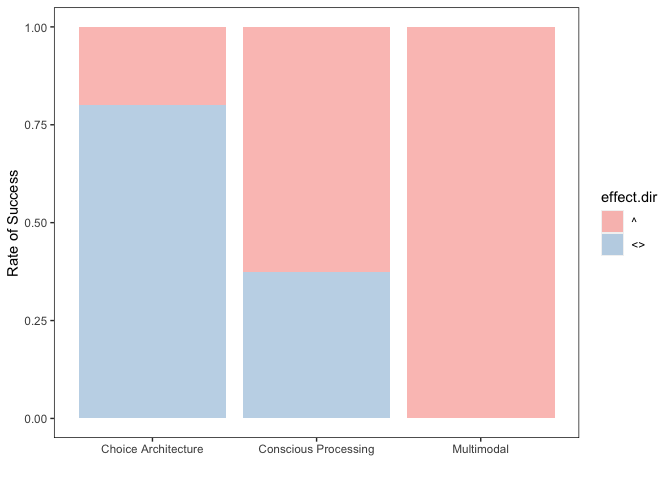
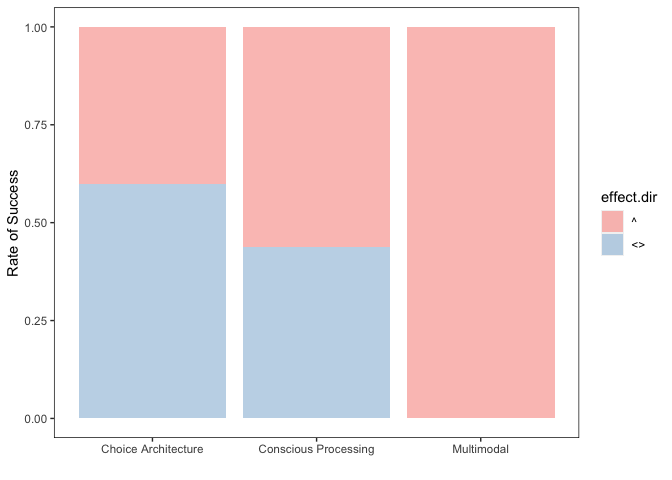
deleted csv file for our fixed effect model to correct changes made to the parent dataset and re-ran filter and write functions to make corresponding corrections

Changed region(s): [[0.0938, 0.2188, 0.3438, 0.4062], [0.3438, 0.5, 0.5938, 0.5938]]

diff --git a/markdowns/visuals.md b/markdowns/visuals.md
@@ -23,23 +23,24 @@ sr.dataset <- read.csv("~/github/university-meat-reduction/data/sr-dataset.csv")
 print(as_tibble(sr.dataset))
 ```
 
-    ## # A tibble: 31 × 17
-    ##    study.title   country year.…¹ eval.…² appro…³ outco…⁴ effec…⁵ effec…⁶ lower…⁷
-    ##    <chr>         <chr>     <int> <chr>   <chr>   <chr>   <chr>     <dbl>   <dbl>
-    ##  1 Andersson & … Sweden     2019 Betwee… Multim… Observ… ^          2.78    1   
-    ##  2 Brunner et a… Sweden     2016 Pre-Po… Multim… Observ… ^          1.09    1.01
-    ##  3 Campbell-Arv… USA        2010 Betwee… Multim… Intend… ^         12.2     8.9 
-    ##  4 Carfora et a… Italy      2018 Both    Consci… Self-R… ^          2.59    1.35
-    ##  5 Carfora, Cas… Italy      2016 Both    Consci… Self-R… ^          3.49    1.75
-    ##  6 Carfora, Cas… Italy      2015 Both    Consci… Self-R… ^          3.73    2.29
-    ##  7 Cerezo-Priet… Spain      2020 Pre-Po… Multim… Observ… ^          1.71    1.37
-    ##  8 Dissen & Cro… USA        2019 Both    Consci… Self-R… ^          3.2     1.68
-    ##  9 Garnett et a… England    2018 Betwee… Choice… Observ… <>         1.07    1.01
-    ## 10 Garnett et a… England    2017 Betwee… Choice… Observ… <>         0.82    0.78
-    ## # … with 21 more rows, 8 more variables: higher.ci <dbl>, num.strat <int>,
-    ## #   inform.mess <int>, financial.inc <int>, menu.pres <int>, area.layout <int>,
-    ## #   menu.off <int>, num.study <int>, and abbreviated variable names ¹year.cond,
-    ## #   ²eval.method, ³approach, ⁴outcome.var, ⁵effect.dir, ⁶effect.mag, ⁷lower.ci
+    ## # A tibble: 31 × 18
+    ##    study.title   country year.…¹ year.…² eval.…³ appro…⁴ outco…⁵ effec…⁶ effec…⁷
+    ##    <chr>         <chr>     <int>   <int> <chr>   <chr>   <chr>   <chr>     <dbl>
+    ##  1 Andersson & … Sweden     2021    2019 Betwee… Multim… Observ… ^          2.78
+    ##  2 Brunner et a… Sweden     2018    2016 Pre-Po… Multim… Observ… ^          1.09
+    ##  3 Campbell-Arv… USA        2011    2010 Betwee… Multim… Intend… ^         12.2 
+    ##  4 Carfora et a… Italy      2019    2018 Both    Consci… Self-R… ^          2.59
+    ##  5 Carfora, Cas… Italy      2017    2016 Both    Consci… Self-R… ^          3.49
+    ##  6 Carfora, Cas… Italy      2017    2015 Both    Consci… Self-R… ^          3.73
+    ##  7 Cerezo-Priet… Spain      2021    2020 Pre-Po… Multim… Observ… ^          1.71
+    ##  8 Dissen & Cro… USA        2020    2019 Both    Consci… Self-R… ^          3.2 
+    ##  9 Garnett et a… England    2019    2017 Betwee… Choice… Observ… ^          1.52
+    ## 10 Garnett et a… England    2020    2017 Betwee… Choice… Observ… <>         0.82
+    ## # … with 21 more rows, 9 more variables: lower.ci <dbl>, higher.ci <dbl>,
+    ## #   num.strat <int>, inform.mess <int>, financial.inc <int>, menu.pres <int>,
+    ## #   area.layout <int>, menu.off <int>, num.study <int>, and abbreviated
+    ## #   variable names ¹year.pub, ²year.cond, ³eval.method, ⁴approach,
+    ## #   ⁵outcome.var, ⁶effect.dir, ⁷effect.mag
 
 ## Reporting on Search Results
 
@@ -77,16 +78,16 @@ fixed.effect <- filter(sr.dataset,outcome.var=="Observed Changes")
 ```
 
 ``` r
-write.csv(fixed.effect,"~/github/university-meat-reduction/data/fixed.effect.csv")
+write.csv(fixed.effect,"~/github/university-meat-reduction/data/fixed-effect.csv")
 ```
 
 ``` r
-fixed.effect <- read.csv("~/github/university-meat-reduction/data/fixed.effect.csv")
+fixed.effect <- read.csv("~/github/university-meat-reduction/data/fixed-effect.csv")
 
 print(as_tibble(fixed.effect))
 ```
 
-    ## # A tibble: 17 × 17
+    ## # A tibble: 17 × 18
     ##        X study…¹ country year.…² eval.…³ appro…⁴ outco…⁵ effec…⁶ effec…⁷ lower…⁸
     ##    <int> <chr>   <chr>     <int> <chr>   <chr>   <chr>   <chr>     <dbl>   <dbl>
     ##  1     1 Anders… Sweden     2019 Betwee… Multim… Observ… ^          2.78    1   
@@ -106,10 +107,10 @@ print(as_tibble(fixed.effect))
     ## 15    15 Schwit… USA        2017 Both    Consci… Observ… ^          1.27    1.16
     ## 16    16 Slapø … Norway     2018 Pre-Po… Multim… Observ… ^          2.7     1.04
     ## 17    17 Turnwa… USA        2017 Betwee… Choice… Observ… <>         1.68    1.46
-    ## # … with 7 more variables: higher.ci <dbl>, num.strat <int>, inform.mess <int>,
+    ## # … with 8 more variables: higher.ci <dbl>, num.strat <int>, inform.mess <int>,
     ## #   financial.inc <int>, menu.pres <int>, area.layout <int>, menu.off <int>,
-    ## #   and abbreviated variable names ¹study.title, ²year.cond, ³eval.method,
-    ## #   ⁴approach, ⁵outcome.var, ⁶effect.dir, ⁷effect.mag, ⁸lower.ci
+    ## #   num.study <int>, and abbreviated variable names ¹study.title, ²year.cond,
+    ## #   ³eval.method, ⁴approach, ⁵outcome.var, ⁶effect.dir, ⁷effect.mag, ⁸lower.ci
 
 ## Comparing Effect Estimates Across the Three Identified Approaches
 
